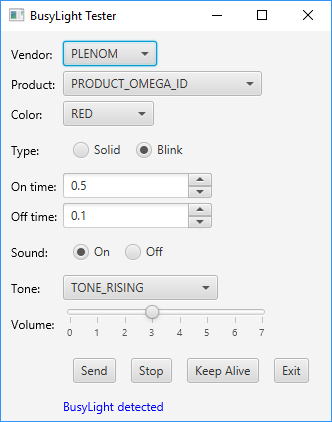
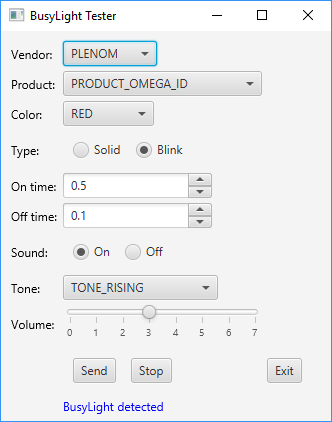
latest

diff --git a/src/org/mitre/busylightapi/BusyLightAPI.java b/src/org/mitre/busylightapi/BusyLightAPI.java
@@ -43,8 +43,10 @@ public class BusyLightAPI implements HidServicesListener {
 	private boolean bSound = false;
 	private Ringtone ringTone = Ringtone.TONE_RISING; //default
 	private short volume = 3;
+	private KeepAliveThread kaThread;
 
 	public BusyLightAPI() {
+		kaThread = new KeepAliveThread("kat", this);
 		initHidServices();
 	}
 
@@ -55,9 +57,18 @@ public class BusyLightAPI implements HidServicesListener {
 		light.initDevice(Vendor.PLENOM, Product.PRODUCT_OMEGA_ID, null);
 
 		light.stop();
-		//light.steadyColor(Color.BLUE);
+		light.steadyColor(BLColor.BLUE);
+
+		KeepAliveThread kathread = new KeepAliveThread("kat",light);
+		kathread.start();
+
+		System.out.println(" GOT HERE");
 
 		Thread.sleep(26000);
+		Thread.sleep(14000);
+
+		System.out.println("Stopping thread.");
+		kathread.interrupt();
 
 
 		light.shutdown();
@@ -102,6 +113,9 @@ public class BusyLightAPI implements HidServicesListener {
 	}	
 
 	public void steadyColor(BLColor c) {
+
+		if (kaThread != null && kaThread.isAlive())
+			kaThread.interrupt();
 
 		if (hidDevice == null) {
 			System.err.println("Error- HID device is null");
@@ -154,6 +168,10 @@ public class BusyLightAPI implements HidServicesListener {
 		} else {
 			System.err.println("error: " + hidDevice.getLastErrorMessage());
 		}
+
+		//keep alive
+		if (kaThread != null && !kaThread.isAlive())
+			kaThread.start();
 	}	
 
 	public void keepAlive() {
@@ -206,6 +224,11 @@ public class BusyLightAPI implements HidServicesListener {
 
 	public void stop() {
 
+		//stop the keep alive thread if it exists
+		if (kaThread != null && kaThread.isAlive()) {
+			kaThread.interrupt();
+		}
+
 		if (hidDevice == null) {
 			return;
 		}
@@ -252,6 +275,9 @@ public class BusyLightAPI implements HidServicesListener {
 
 	//time on and time off are in tenths of a second
 	public void blinkColor(BLColor c, int timeOn, int timeOff) {
+
+		if (kaThread != null && kaThread.isAlive())
+			kaThread.interrupt();		
 
 		if (hidDevice == null) {
 			System.err.println("Error- HID device is null");
@@ -315,6 +341,10 @@ public class BusyLightAPI implements HidServicesListener {
 		} else {
 			System.err.println("error: " + hidDevice.getLastErrorMessage());
 		}
+
+		//keep alive
+		if (kaThread != null && !kaThread.isAlive())
+			kaThread.start();		
 	}	
 
 	public void initHidServices() throws HidException {
@@ -342,6 +372,11 @@ public class BusyLightAPI implements HidServicesListener {
 	}	
 
 	public void shutdown() {
+		if (kaThread != null) {
+			if (kaThread.isAlive())
+				kaThread.interrupt();
+			kaThread = null;
+		}
 		if (hidDevice != null)
 			hidDevice.close();
 		if (hidServices != null)
@@ -390,8 +425,29 @@ public class BusyLightAPI implements HidServicesListener {
 		}
 		this.volume = volume;
 	}
+}
 
+class KeepAliveThread extends Thread {
 
+	private static final int FREQUENCY_SECS = 10;
+	private boolean bAlive;
+	private BusyLightAPI theLight;
 
+	public KeepAliveThread(String name, BusyLightAPI light) {
+		super(name);
+		bAlive = true;
+		theLight = light;
+	}
 
+	@Override
+	public void run() {
+		while (bAlive) {
+			theLight.keepAlive();
+			try {
+				Thread.sleep(FREQUENCY_SECS * 1000);
+			} catch (InterruptedException e) {
+				bAlive = false;
+			}
+		}
+	}
 }

diff --git a/src/org/mitre/busylightapi/BusyLightGUI.java b/src/org/mitre/busylightapi/BusyLightGUI.java
@@ -258,14 +258,6 @@ public class BusyLightGUI extends Application {
 		});	
 		gp4.add(buttonStop,  1, 0);
 
-		Button buttonKeepAlive = new Button("Keep Alive");
-		buttonKeepAlive.setOnAction(e -> {
-			status.setText("");
-			if (light != null)
-				light.keepAlive();
-		});	
-		gp4.add(buttonKeepAlive,  2, 0);
-
 		gridPane.add(gp4, 1, 9);
 
 		Button buttone = new Button("Exit");
@@ -273,6 +265,7 @@ public class BusyLightGUI extends Application {
 			if (light != null) {
 				light.stop();
 				light.shutdown();
+				light = null;
 			}
 			Platform.exit();
 		});
@@ -285,7 +278,14 @@ public class BusyLightGUI extends Application {
 		Scene scene = new Scene(gridPane,330,390);
 		stage.setTitle("BusyLight Tester");
 		stage.setScene(scene);
-		stage.setOnCloseRequest(e -> Platform.exit());
+		stage.setOnCloseRequest(e -> {
+			if (light != null) {
+				light.stop();
+				light.shutdown();
+				light = null;
+			}			
+			Platform.exit();
+		});
 		stage.show();
 
 	}

diff --git a/README.md b/README.md
@@ -4,8 +4,6 @@ The busylightapi project is an open-source application programming interface (AP
 
 The BusyLightAPI class is a generic API for any external interface. It depends on platform-specific runtime libraries from the hid4java project (see *hid4java\src\main\resources*). The BusyLightGUI class is a sample UI that uses the BusyLightAPI class to control the device.
 
-The BusyLightGUI tester is configured to persist each sent message for 25 seconds only. To maintain the current command longer, use the *Keep Alive* button. This will persist the command an additional 10 seconds.
-
 ### Requirements
 
 * Java SE Development Kit 8
@@ -53,7 +51,6 @@ Options:
 * *Volume* - volume level of ringtone
 * *Send* - send the message to the light; persists for 25 seconds
 * *Stop* - send a stop message to the light
-* *Keep Alive* - send a keep alive message to persist the command for an additional 10 seconds
 * *Exit* - exit the tester UI
 
 
